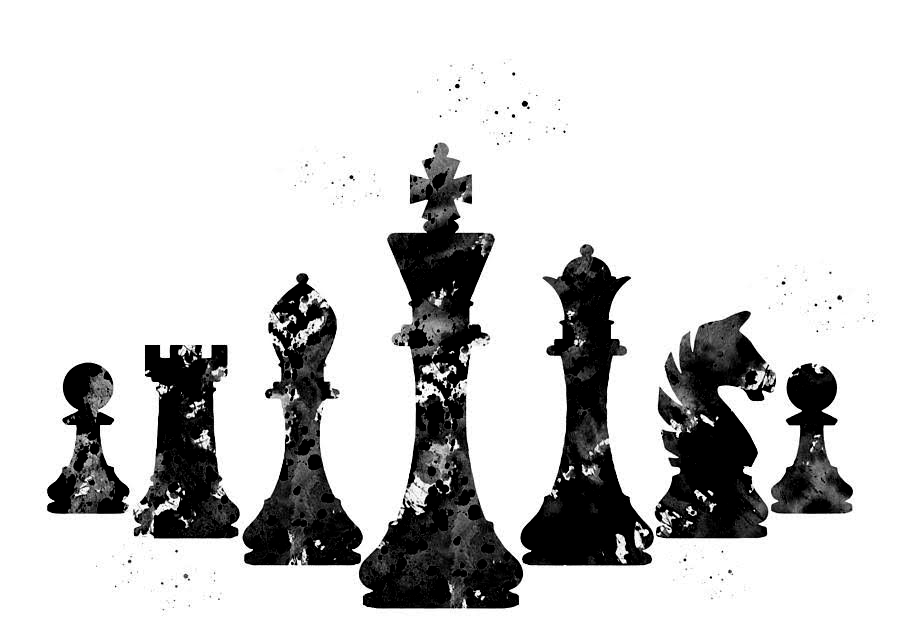
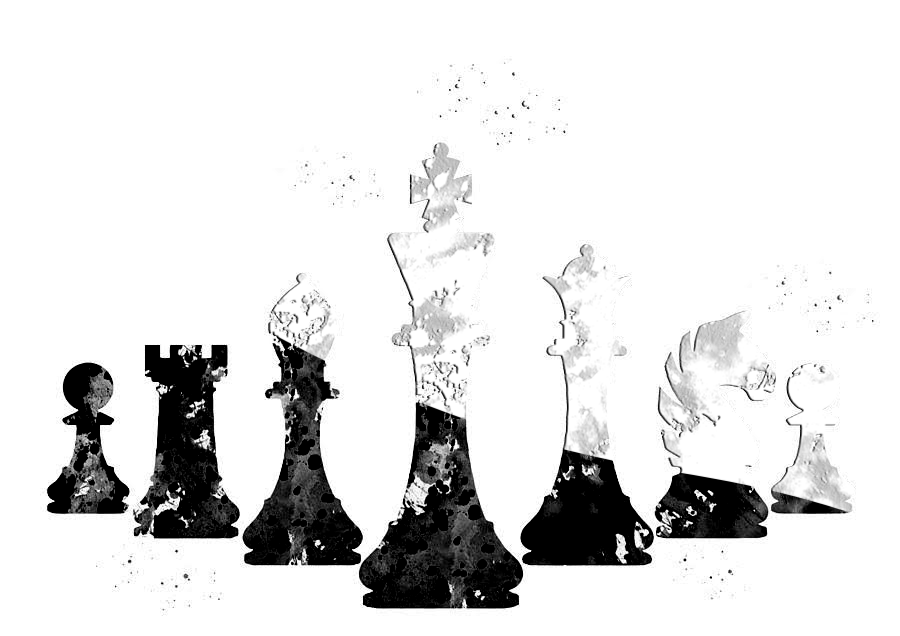
fixed landing page

diff --git a/style.css b/style.css
@@ -36,14 +36,14 @@
 .crushed-normal-black-100px {
   color: black;
   font-family: "Crushed", Helvetica, Arial, serif;
-  font-size: 100px;
+  font-size: 12vh;
   font-style: normal;
   font-weight: 400;
 }
 .crushed-normal-black-50px {
   color: black;
   font-family: "Crushed", Helvetica, Arial, serif;
-  font-size: 50px;
+  font-size: 6vh;
   font-style: normal;
   font-weight: 400;
 }
@@ -51,61 +51,66 @@
   align-items: flex-start;
   background-color: white;
   display: flex;
-  height: 1028px;
-  overflow: hidden;
-  width: 1440px;
+  height: auto;
+  
+  width: 100%;
 }
 .landing-2 .b-chess {
-  height: 636px;
-  left: 271px;
+  height: auto;
+  
   object-fit: cover;
-  position: absolute;
-  top: 131px;
-  width: 900px;
+  position: relative;
+  
+  width: 100%;
 }
 .landing-2 .chess {
-  height: 1046px;
+  height: auto;
   left: 0px;
   position: absolute;
   top: 1px;
-  width: 1449px;
+  width: 100%;
   opacity: 0;
   transform: scale(1.1);
 }
 .landing-2 .heading {
-  height: 204px;
-  left: 499px;
+  height: 10.0vh;
+  left: 37%;
   pointer-events: auto;
   position: absolute;
-  top: 735px;
+  top: 75%;
   transition: all 0.2s ease;
-  width: 448px;
+  width: 75.0vw;
   opacity: 0;
-  transform: translate(0, 25px);
+  text-align: center;
+  font-size: 12vw;
+  
+
+ 
 }
 .landing-2 .overlap-group {
-  height: 1046px;
-  margin-left: -1px;
-  margin-top: -1.25px;
+  height: auto;
+  
   position: relative;
-  width: 1449px;
+  width: 100%;
 }
 .landing-2 .overlap-group1 {
-  height: 1046px;
+  height: auto;
   position: relative;
 }
 .landing-2 .overlap-group2 {
-  height: 204px;
+  height: auto;
   position: relative;
-  width: 446px;
+  text-align: center;
+  height: 60px;
+  width: 90.0vw;
 }
 .landing-2 .overlap-group3 {
   align-items: flex-end;
   
   background-size: 100% 100%;
   display: flex;
-  height: 56px;
-  min-width: 196px;
+  height: 60px;
+  width: 80.0vw;
   padding: 6.4px 56px;
 }
 .landing-2 .place {
@@ -117,16 +122,17 @@
   left: 17px;
   letter-spacing: -5px;
   position: absolute;
-  top: 0px;
+  top: 0%;
 }
 .landing-2 .start-button {
-  height: 56px;
-  left: 626px;
-  position: absolute;
-  top: 883px;
-  width: 198px;
+  height: 5%;
+  left: 43%;
+  position: relative;
+  top: 115%;
+  width: 13%;
   opacity: 0;
-  transform: translate(0, 25px);
+  
+  
 }
 .landing-2 .text-1 {
   left: 0px;
@@ -135,20 +141,20 @@
   top: 90px;
 }
 .landing-2 .vector-2 {
-  display: block;
-  height: 1046px;
-  left: 0px;
-  position: absolute;
-  top: 0px;
-  width: 1449px;
+  
+  height: auto;
+  
+  position: relative;
+  
+  width: 100%;
   opacity: 0;
 }
 .landing-2 .whitechessmask {
-  height: 1046px;
-  left: 0px;
-  position: absolute;
-  top: 0px;
-  width: 1449px;
+  height: auto;
+  
+  position: relative;
+  
+  width: 100%;
 }
 @keyframes animate-enter-frames {
   from {

diff --git a/home.html b/home.html
@@ -25,10 +25,7 @@
             class="b-chess"
             src="images/bchess@1x.png"
           />
-          <img
-            class="whitechessmask"
-            src="images/white-chess-mask@1x.png"
-          />
+          
         </div>
       </div>
       <div class="heading animate-enter2 smart-layers-pointers">
